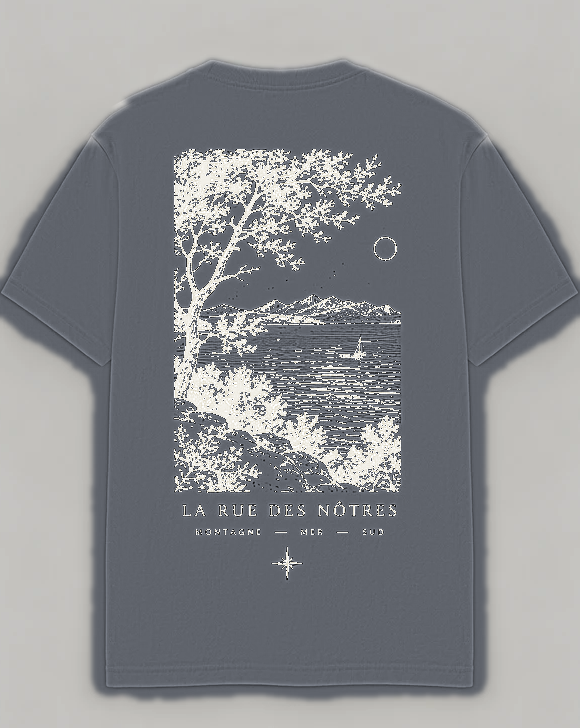
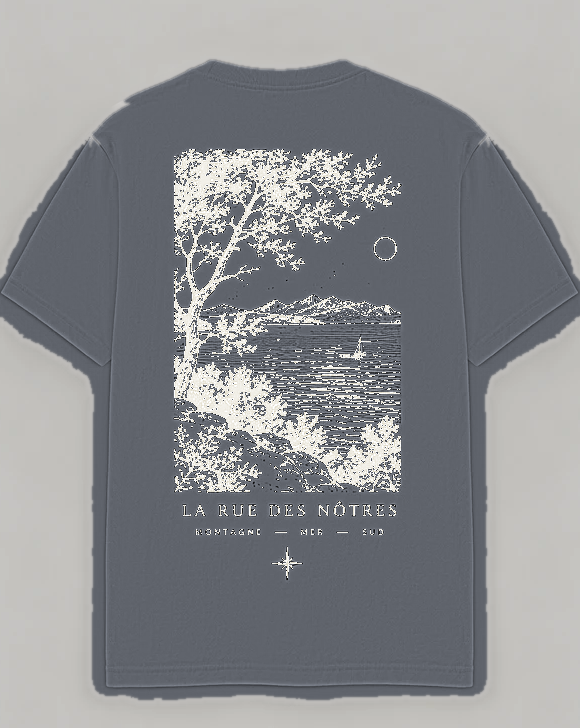
Corriger le flou et le liseré blanc sur les silhouettes Noir/Gris Bleu (#24)
Le feather du masque (2.5px) servait à lisser le contour du vêtement,
mais sur Noir/Gris Bleu (fort contraste avec le fond studio gris) cela
se voyait comme un halo flou sur toute la silhouette, y compris
l'étiquette LRDN brodée. Réduit à 1px.

Cause plus profonde du liseré blanc : les pixels d'anti-aliasing du
contour, dans la photo source, sont une teinte entre le tissu blanc et
le fond gris — donc classés "fond" et jamais recolorés, ils restent
clairs sur toutes les couleurs sombres. Ajout d'un "déclutter" qui
ramène ces quelques pixels de fond proches du vêtement vers la couleur
plate du fond studio au lieu de garder leur valeur photographiée.

Claude-Session: https://claude.ai/code/session_01JcT3HfdB21VBu6dsokyrCK

diff --git a/scripts/recolor-catalog.py b/scripts/recolor-catalog.py
@@ -49,7 +49,21 @@ INK_LUMINANCE_THRESHOLD = 120
 # outside that tolerance) while still relying on border-connectivity,
 # not just color distance, to keep it from eating into real fabric.
 BG_TOLERANCE = 35
-MASK_FEATHER_PX = 2.5
+# Just enough feather to anti-alias the mask edge, not to hide it. A wider
+# blur (previously 2.5) was imperceptible on Blanc/Beige but read as a
+# visible out-of-focus halo around the whole garment on Noir/Gris Bleu,
+# where the fabric-to-backdrop contrast is much higher.
+MASK_FEATHER_PX = 1.0
+# How many pixels of studio backdrop next to the garment silhouette get
+# flattened to the flat backdrop reference color instead of their raw
+# photographed value (see EDGE_DECLUTTER_PX usage in recolor_image). The
+# photo's own anti-aliasing blends those edge pixels toward the *fabric*
+# color (close to white, since Blanc is the source), so on a light
+# colorway they read as background either way — but on Noir/Gris Bleu they
+# stay a stray light sliver forever, since (being classified as
+# background) they're never recolored. Flattening them removes that sliver
+# without having to blur the edge itself to hide it.
+EDGE_DECLUTTER_PX = 8
 
 
 def hex_to_rgb01(hex_color: str):
@@ -76,8 +90,10 @@ def hls_to_rgb_vectorized(h: float, l: np.ndarray, s: float) -> np.ndarray:
     return np.stack([r, g, b], axis=-1)
 
 
-def garment_mask(arr: np.ndarray) -> np.ndarray:
-    """Soft (0..1) mask: 1 = garment (fabric or ink), 0 = studio background."""
+def garment_mask(arr: np.ndarray):
+    """Soft (0..1) mask: 1 = garment (fabric or ink), 0 = studio background.
+    Also returns the sampled backdrop color and the hard (pre-feather)
+    background map, which recolor_image uses to declutter the edge."""
     h, w, _ = arr.shape
     border = np.concatenate(
         [
@@ -112,10 +128,12 @@ def garment_mask(arr: np.ndarray) -> np.ndarray:
 
     mask_img = Image.fromarray((mask * 255).astype(np.uint8))
     mask_img = mask_img.filter(ImageFilter.GaussianBlur(MASK_FEATHER_PX))
-    return np.array(mask_img).astype(np.float64) / 255.0
+    soft_mask = np.array(mask_img).astype(np.float64) / 255.0
+    return soft_mask, bg_ref, true_bg
 
 
 LOCAL_BASELINE_SIGMA_PX = 2
+DEVIATION_GAIN = 1.0
 
 
 def recolor_region(arr: np.ndarray, region_mask: np.ndarray, target_hex: str) -> np.ndarray:
@@ -146,7 +164,7 @@ def recolor_region(arr: np.ndarray, region_mask: np.ndarray, target_hex: str) ->
     target_r, target_g, target_b = hex_to_rgb01(target_hex)
     h, l, s = colorsys.rgb_to_hls(target_r, target_g, target_b)
 
-    deviation = gray - local_baseline
+    deviation = (gray - local_baseline) * DEVIATION_GAIN
     final_l = np.clip(l + deviation, 0.0, 1.0)
     out_rgb = hls_to_rgb_vectorized(h, final_l, s) * 255.0
     out_rgb = np.clip(out_rgb, 0, 255)
@@ -167,7 +185,7 @@ def recolor_image(
     arr = np.array(img).astype(np.float64)
 
     if has_backdrop:
-        g_mask = garment_mask(np.array(img))
+        g_mask, bg_ref, true_bg = garment_mask(np.array(img))
     else:
         # The close-up detail crops (logo/collar-tag/fabric) never have the
         # studio backdrop in frame — it's fabric edge-to-edge. Trying to
@@ -176,6 +194,7 @@ def recolor_image(
         # fabric instead of all of it. There's nothing to protect from
         # recoloring here, so just recolor everything.
         g_mask = np.ones(arr.shape[:2], dtype=np.float64)
+        bg_ref, true_bg = None, None
     gray = arr.mean(axis=2) / 255.0
     if has_ink:
         ink_mask = g_mask * (gray < (INK_LUMINANCE_THRESHOLD / 255.0))
@@ -194,6 +213,19 @@ def recolor_image(
         # much contrast against them — flip to the light cream instead.
         result = recolor_region(result, ink_mask, LIGHT_INK)
     # else (Beige): ink stays as-is, dark navy reads fine on a light base.
+
+    if true_bg is not None and true_bg.any():
+        # Within EDGE_DECLUTTER_PX of the garment, pull the background
+        # side of the blend toward the flat backdrop color instead of the
+        # raw photographed pixel (see EDGE_DECLUTTER_PX comment above).
+        # Farther out, the real backdrop/shadow gradient is left alone.
+        dist_from_bg_to_garment = ndimage.distance_transform_edt(true_bg)
+        band = np.clip(1 - dist_from_bg_to_garment / EDGE_DECLUTTER_PX, 0, 1) * true_bg
+        bg_broadcast = np.asarray(bg_ref).reshape(1, 1, 3)
+        band = band[:, :, None]
+        decluttered_bg = arr * (1 - band) + bg_broadcast * band
+        correction = (1 - g_mask[:, :, None]) * (decluttered_bg - arr)
+        result = result + correction
 
     Image.fromarray(np.clip(result, 0, 255).astype(np.uint8)).save(out_path)
 
